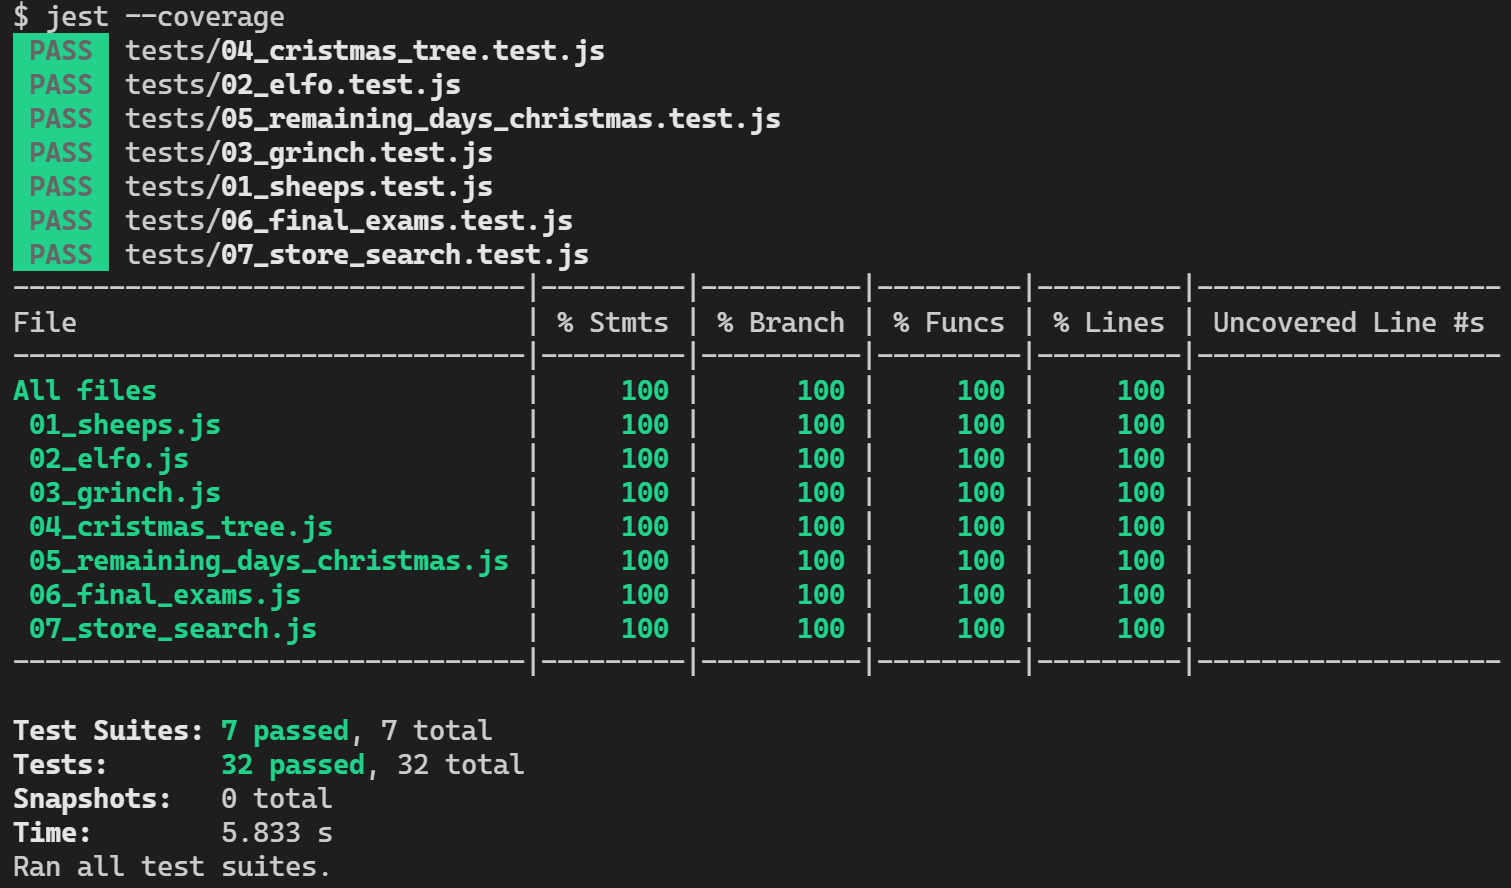
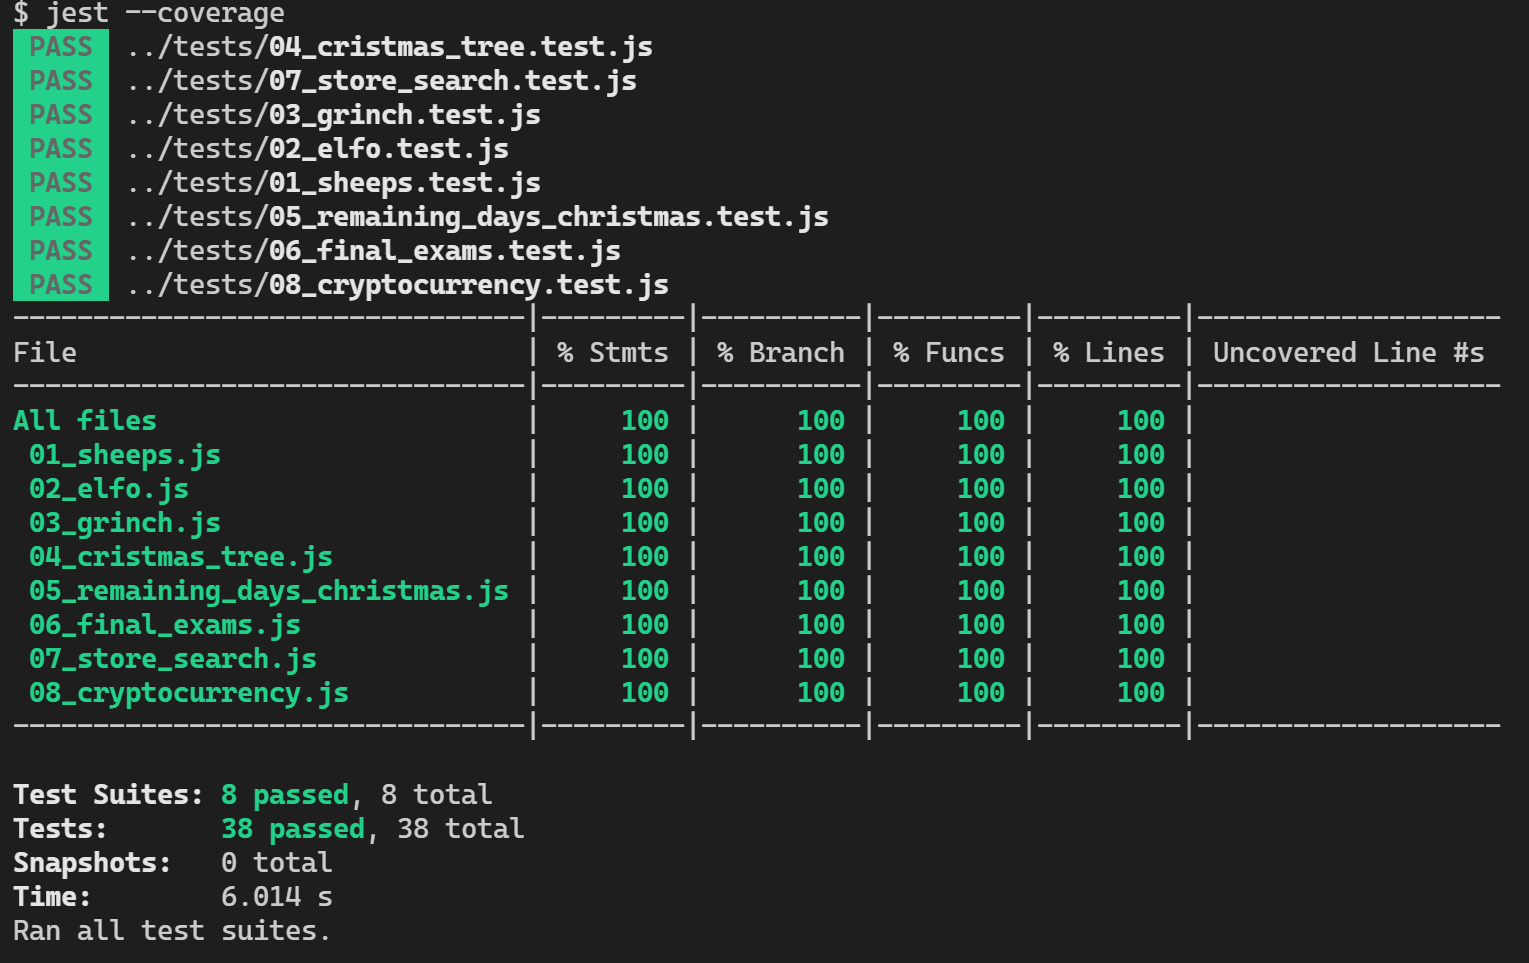
exercise - add - eigth exercise

Changed region(s): [[0.0, 0.0, 0.9954, 0.7601], [0.0, 0.7905, 0.3422, 1.0]]

diff --git a/tests/08_cryptocurrency.test.js b/tests/08_cryptocurrency.test.js
@@ -1,0 +1,33 @@
+describe("Cryptocurrency module should", () => {
+  const sut = require("../exercises/08_cryptocurrency");
+
+  it("return 16 of profit ", () => {
+    const pricesBtc = [39, 18, 29, 25, 34, 32, 5];
+    const expected = 16;
+    expect(sut(pricesBtc)).toBe(expected);
+  });
+
+  it("return 16 of profit ", () => {
+    const pricesBtc = [39, 29, 18, 25, 34, 32, 5];
+    const expected = 16;
+    expect(sut(pricesBtc)).toBe(expected);
+  });
+
+  it("return 60 of profit", () => {
+    const pricesEth = [10, 20, 30, 40, 50, 60, 70];
+    const expected = 60;
+    expect(sut(pricesEth)).toBe(expected);
+  });
+
+  it("return -1 when no profit is obtained", () => {
+    const pricesDoge = [18, 15, 12, 11, 9, 7];
+    const expected = -1;
+    expect(sut(pricesDoge)).toBe(expected);
+  });
+
+  it("return -1 when no profit is obtained", () => {
+    const pricesAda = [3, 3, 3, 3, 3];
+    const expected = -1;
+    expect(sut(pricesAda)).toBe(expected);
+  });
+});

diff --git a/exercises/08_cryptocurrency.js b/exercises/08_cryptocurrency.js
@@ -1,0 +1,13 @@
+module.exports = (prices) => {
+  let initialValue = prices[0];
+  let profit = -1;
+  for (let i = 1; i < prices.length; i++) {
+    if (prices[i] > initialValue) {
+      const profitTemp = prices[i] - initialValue;
+      profit = profit > profitTemp ? profit : profitTemp;
+    } else if (prices[i] < initialValue) {
+      initialValue = prices[i];
+    }
+  }
+  return profit;
+};
